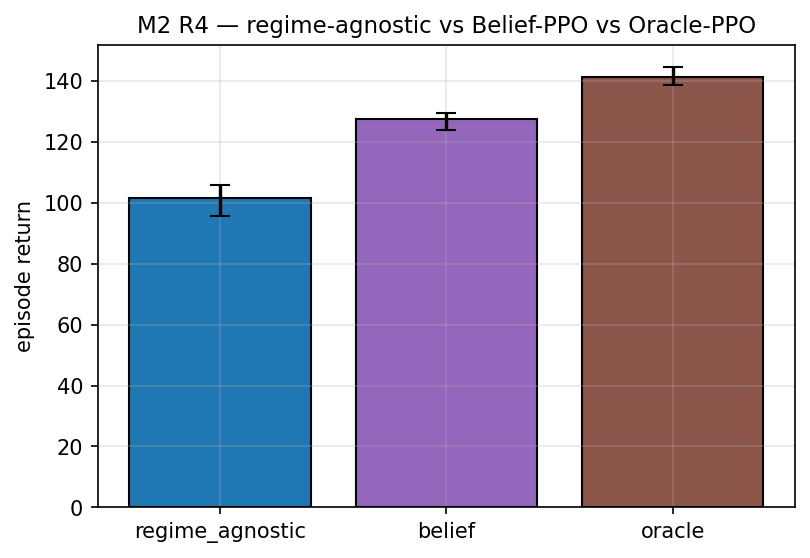
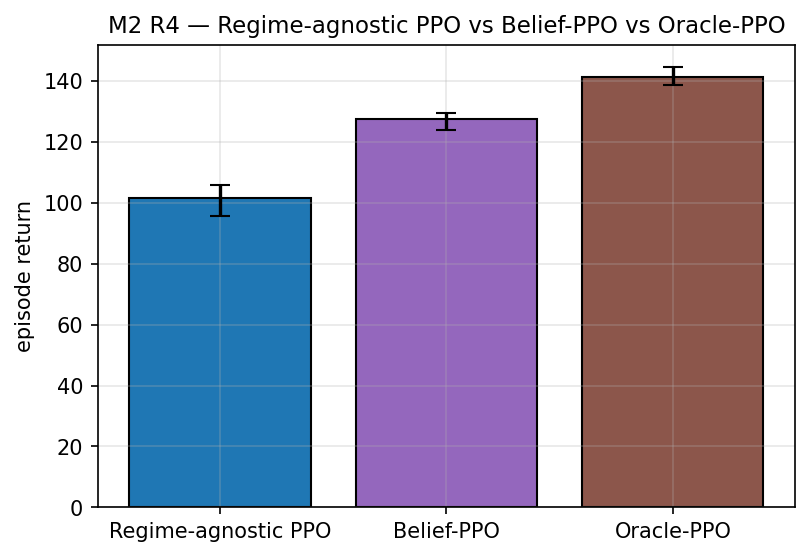
doc updated m3

diff --git a/plotting/m2_plots.py b/plotting/m2_plots.py
@@ -189,14 +189,20 @@ def plot_belief_ppo_gap(
         "belief": COLORS.get("belief_ppo", "#9467bd"),
         "oracle": COLORS.get("oracle_ppo", "#8c564b"),
     }
+    label_map = {
+        "regime_agnostic": "Regime-agnostic PPO",
+        "belief": "Belief-PPO",
+        "oracle": "Oracle-PPO",
+    }
     colors = [palette.get(n, "#888") for n in names]
+    display_labels = [label_map.get(n, n) for n in names]
     fig, ax = plt.subplots(figsize=FIGSIZE_STANDARD)
     xs = np.arange(len(names))
     ax.bar(xs, means, yerr=[errs_lo, errs_hi], capsize=5, color=colors, edgecolor="black")
     ax.set_xticks(xs)
-    ax.set_xticklabels(names, rotation=0)
+    ax.set_xticklabels(display_labels, rotation=0)
     ax.set_ylabel("episode return")
-    ax.set_title("M2 R4 — regime-agnostic vs Belief-PPO vs Oracle-PPO")
+    ax.set_title("M2 R4 — Regime-agnostic PPO vs Belief-PPO vs Oracle-PPO")
     output_path.parent.mkdir(parents=True, exist_ok=True)
     fig.savefig(output_path)
     plt.close(fig)

diff --git a/plotting/m3_plots.py b/plotting/m3_plots.py
@@ -16,7 +16,7 @@ from plotting.style import COLORS, FIGSIZE_STANDARD, FIGSIZE_WIDE, apply_style
 
 _METHOD_ORDER = ("regime_agnostic_ppo", "belief_ppo", "oracle_ppo")
 _METHOD_LABELS = {
-    "regime_agnostic_ppo": "regime-agnostic",
+    "regime_agnostic_ppo": "Regime-agnostic PPO",
     "belief_ppo": "Belief-PPO",
     "oracle_ppo": "Oracle-PPO",
 }
